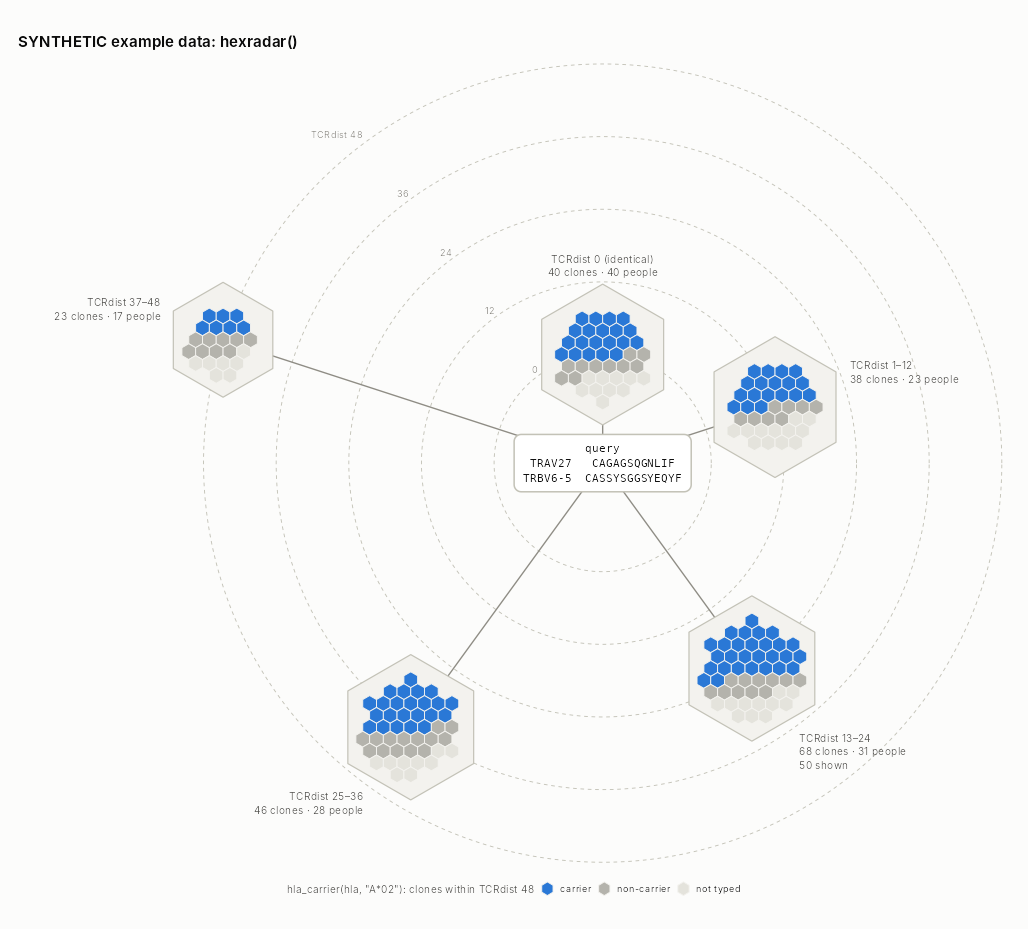
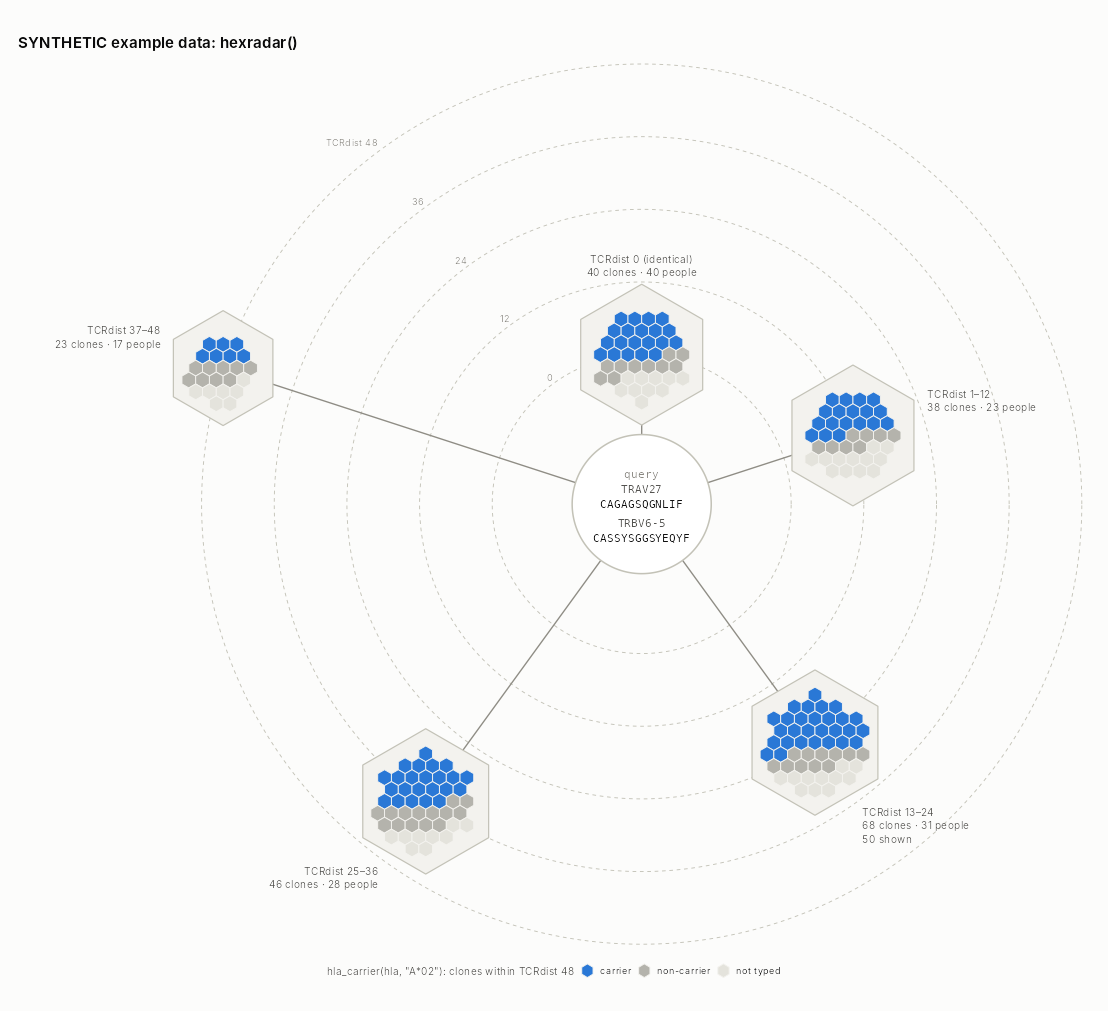
hexradar(): circular central node (centre = "circle", default)
The query is drawn in a circle sized to hold its text, stacked as
query / TRAV / CDR3a / TRBV / CDR3b; centre = "box" keeps the rounded box
with one line per chain. Frames are placed to clear the circle. README
mentions the centre option and cumulative rings; README figure refreshed.

Claude-Session: https://claude.ai/code/session_01NFPYpdCDu3rbGoYYDCV7qf

diff --git a/README.md b/README.md
@@ -147,11 +147,12 @@ hexradar(cells, aes(fill = hla_carrier(hla, "A*02")),
          query = "TRAV27:CAGAGSQGNLIF:TRBV6-5:CASSYSGGSYEQYF")   # or top_expanded(cells, 1)
 ```
 
-The query sits in the centre. Each distance bin is a frame on its dashed
+The query sits in a circle in the centre (`centre = "box"` for a rounded box). Each distance bin is a frame on its dashed
 TCRdist ring (0, 12, 24, …, `radius = 48` by default), joined to the query by
 a spoke and labelled "TCRdist 1–12 · 125 clones · 95 donors · 50 shown". Fill,
-patterns, scales, `cumulative`, `logos` and `gene_logos` work as in
-`hexrows()`. Use `donor_noun = "people"` (or `"mice"`) to change the label
+patterns, scales, `logos` and `gene_logos` work as in `hexrows()`.
+`cumulative = TRUE` makes each frame hold every clone up to its ring
+("TCRdist ≤ 24"). Use `donor_noun = "people"` (or `"mice"`) to change the label
 wording.
 
 ![](man/figures/ex5_synthetic_radar.png)
